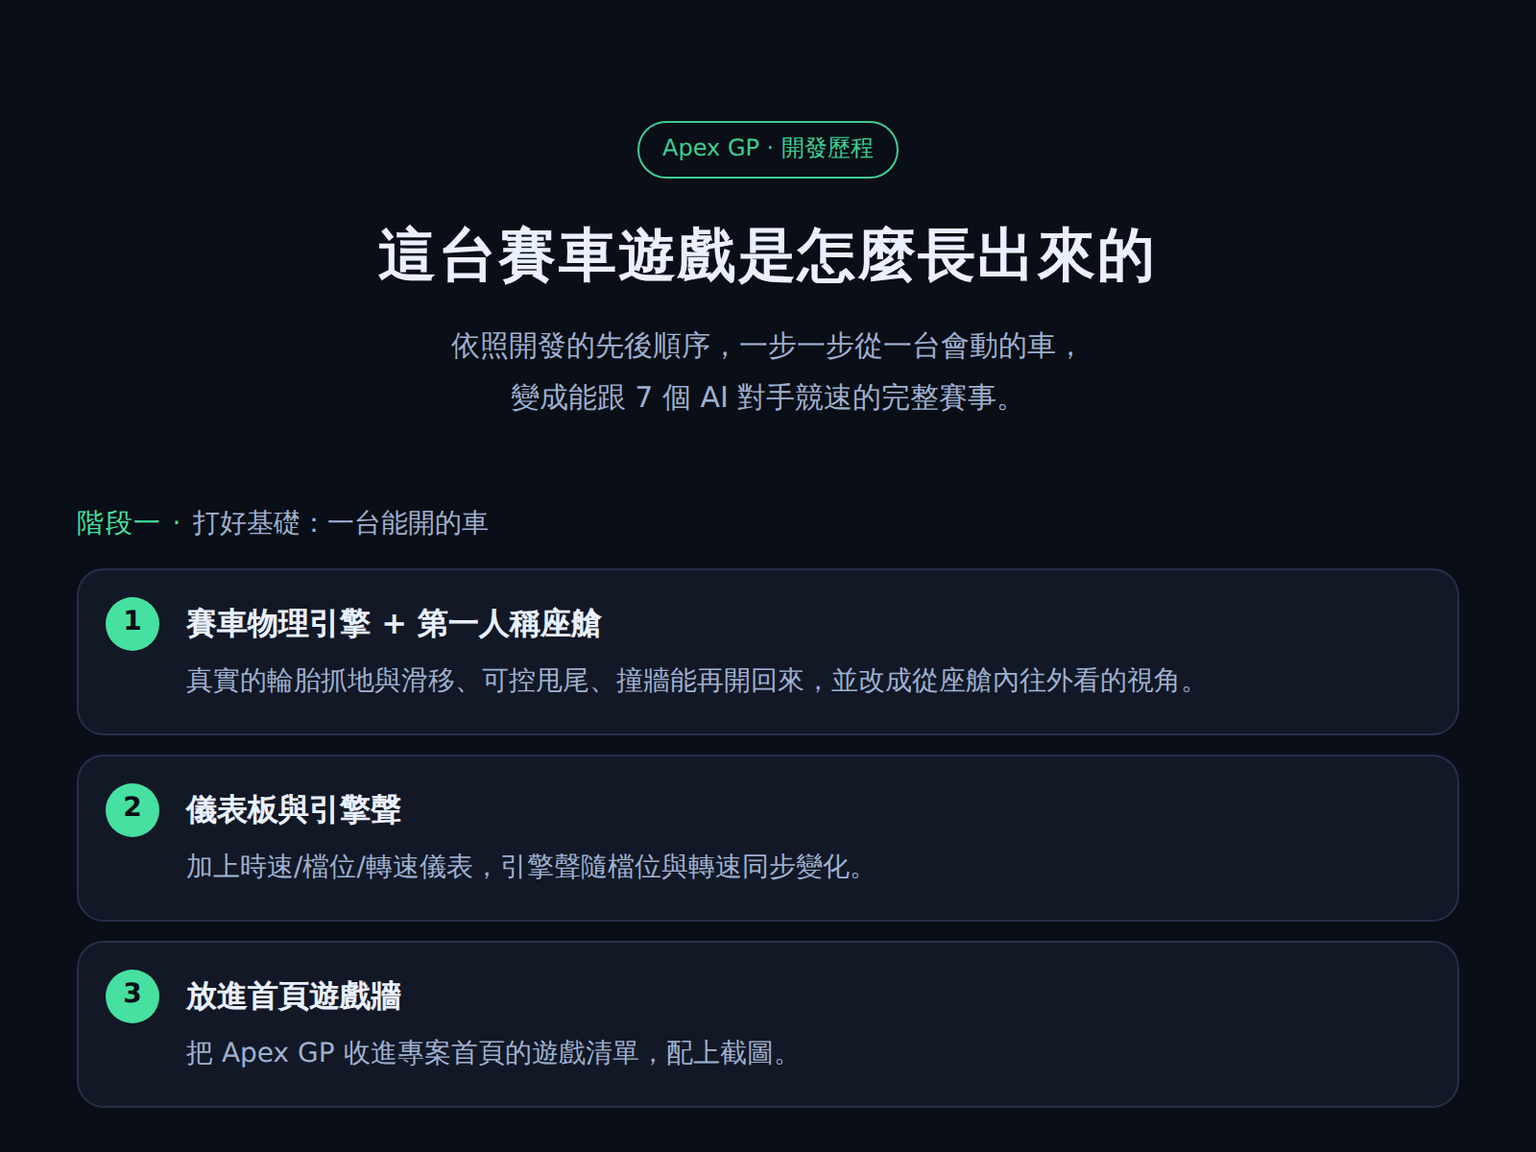
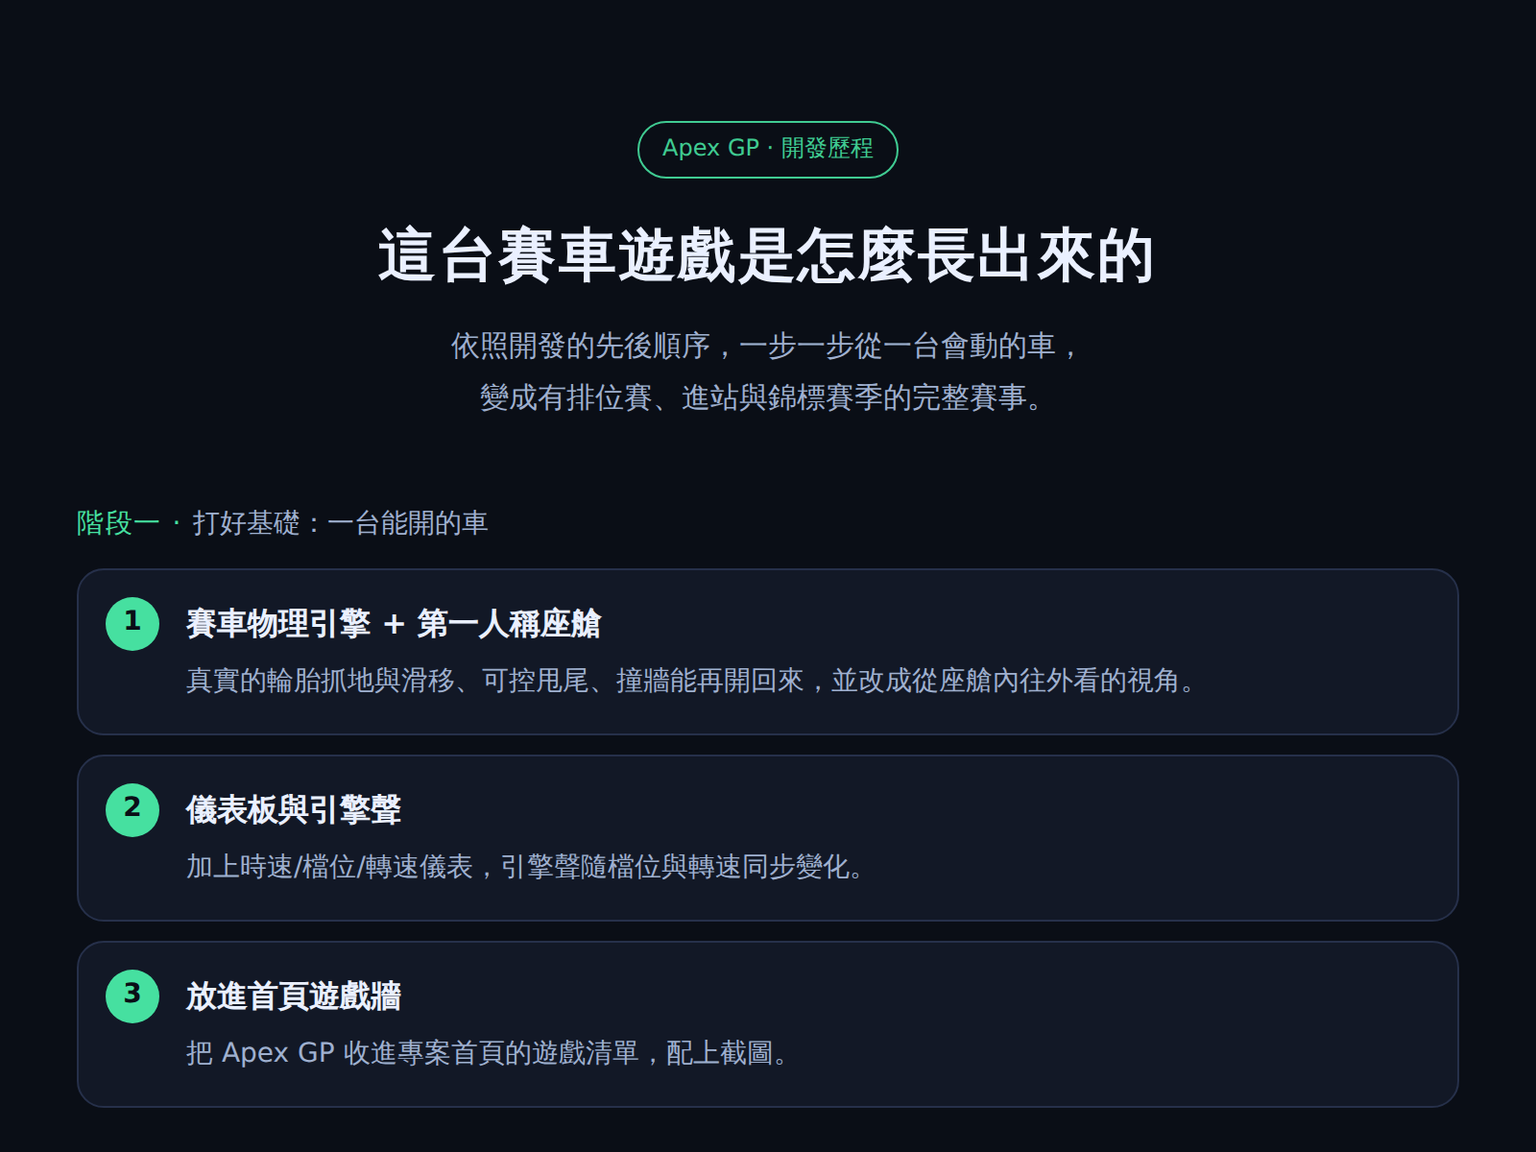
Apex GP: refresh explainer pages for the last 18 commits
the-making-of: five new phases (23-40) — bug-fix sweep, golden-hour visual
pack, race-weekend features (sectors, four circuits, qualifying), an honest
elevation post-mortem, and the championship + stuck-steering finale.

the-science: sections 14-18 (tyre wear & pit strategy, sector timing,
qualifying, championship points, how the world gets drawn), cheat-sheet rows
and control keys updated; points table wrapped in a scroll container so
phones don't get page-level horizontal overflow.

Re-shot the-making-of.png; the-science.png unchanged (top viewport identical).

Changed region(s): [[0.3125, 0.3083, 0.6875, 0.37]]

diff --git a/f1_racing/the-making-of.html b/f1_racing/the-making-of.html
@@ -38,7 +38,7 @@
 <header>
   <div class="tag">Apex GP · 開發歷程</div>
   <h1>這台賽車遊戲是怎麼長出來的</h1>
-  <p>依照開發的先後順序，一步一步從一台會動的車，<br>變成能跟 7 個 AI 對手競速的完整賽事。</p>
+  <p>依照開發的先後順序，一步一步從一台會動的車，<br>變成有排位賽、進站與錦標賽季的完整賽事。</p>
 </header>
 
 <div class="phase">階段一 · <span>打好基礎：一台能開的車</span></div>
@@ -93,6 +93,44 @@
   <li><h3>遙測記錄器</h3><p>遊戲會記錄你每一刻的位置、速度、油門/煞車，按一鍵就能匯出成檔案來分析自己的開法。</p></li>
   <li><h3>用真實數據把 AI 調對</h3><p>錄下一圈真人的 lap 後發現：AI 其實只會「提早鬆油滑行」進彎，而不是像人一樣撐到彎前才重煞，過彎也太保守。於是教它<b>全油門撐到煞車點才煞、帶更高的彎速</b>，還發現「容許它稍微打滑、整體反而更快」——調校的目標從「乾淨」改成「圈速」。</p></li>
   <li><h3>Nankang 贊助塗裝</h3><p>把贊助商 logo 貼上座艙儀表板（寬螢幕顯示，手機畫面太擠則自動隱藏）。</p></li>
+</ol>
+
+<div class="phase">階段九 · <span>先把三個老毛病修乾淨</span></div>
+<ol start="23" style="counter-reset:step 22">
+  <li><h3>HUD 疊字、看台卡頓、彎中的路面破洞</h3><p>三個一起處理：遙測長條移到文字區塊下方（原本蓋住 BEST 和賽道名）；看台觀眾改用「真實尺寸」而不是「螢幕像素」算座位數，近距離時不再一格畫上萬個方塊（單幀曾飆到 740 毫秒）；路面多邊形改成<b>近平面裁切</b>，不再因為一個角落跑到相機後面就整塊丟掉——過彎時閃出綠色地面的破洞消失了。</p></li>
+  <li><h3>領先者衝線，比賽就結束</h3><p>原本只有「玩家」過線才算完賽——所以你如果停在起跑格不動，自己的圈數永遠不會增加，AI 就在旁邊無限跑下去。改成<b>第一台跑完最後一圈的車</b>（不管是你還是對手）就落下格子旗，玩家再依跑過的距離排名次。</p></li>
+</ol>
+
+<div class="phase">階段十 · <span>黃金時刻：把整個世界點亮</span></div>
+<ol start="25" style="counter-reset:step 24">
+  <li><h3>座艙震動 + 高速速度線</h3><p>畫面震動其實一直有在計算，卻從來沒被用到（死碼）。接上去之後，壓草皮、輾路緣、鎖死、撞擊時整個世界會抖幾個像素，方向盤和 HUD 保持不動——讀起來就像座艙在共振。另外時速超過約 <b>170 km/h</b> 開始，從消失點放射出淡白色速度線。</p></li>
+  <li><h3>夕陽天空、距離霧、修剪過的草皮</h3><p>統一成黃金時刻色調：分層漸層天空、會視差移動的低太陽、雲帶、朦朧紫丘。遠處的路面與景物<b>淡入霧裡</b>而不是憑空跳出來。再加上割草機紋路的草皮、路中央被輪胎磨黑的行車線，以及每個彎前的 50m / 100m 煞車距離牌（門檻依各賽道的彎急程度算）。</p></li>
+  <li><h3>換檔燈、看台結構、起跑龍門</h3><p>儀表板上方換成 F1 方向盤式的 <b>15 顆換檔燈</b>（5 綠 / 5 紅 / 5 紫），隨轉速由左往右亮，超轉時全部閃爍。舊的燈其實一直畫在畫面外（輪軸樞紐在畫框下方），難怪看起來像不會動的裝飾。看台補上混凝土基座、屋頂立柱、兩端鋼構。</p></li>
+  <li><h3>長影子與活的觀眾</h3><p>每個物件（樹、看板、標誌、看台、龍門柱）和對手車都拖出<b>被夕陽拉長的影子</b>；路面與草地依照「面對太陽的角度」分三級明暗；朝著太陽跑的路段會泛起暖色反光。看台上開始有觀眾揮舞隊旗、閃光燈此起彼落。</p></li>
+  <li><h3>看得見自己的前輪 + 維修牆與輪胎牆</h3><p>畫面左下右下加上<b>自己的兩顆前輪</b>，會跟著你轉向、有懸吊連桿和輪胎配方顏色的胎壁環。（也試過 Halo 和後照鏡，兩個都砍掉——Halo 的柱子正好擋在行車線上，後照鏡太雜亂。）對手的上半身車體會隨相對偏航「錯開」，遠遠就看得出他在切彎；再加上起跑直線旁的維修牆、以及最急彎外側的輪胎牆。</p></li>
+  <li><h3>對手賽車大改造</h3><p>從一塊平梯形變成有腰身的車體：側箱在底板處鼓起、座艙處收腰、往引擎蓋收尖；駕駛頭盔加上 Halo 環和進氣口。前輪露在車身外，過彎時擺得比車身還寬——<b>遠距離判斷「他在轉了」最清楚的線索</b>。尾翼做成兩層，DRS 打開時襟翼會明顯放平變亮。</p></li>
+</ol>
+
+<div class="phase">階段十一 · <span>從「一場比賽」變成「一個賽事週末」</span></div>
+<ol start="31" style="counter-reset:step 30">
+  <li><h3>分段計時 + 進站換胎</h3><p>HUD 顯示 S1/S2/S3 分段，破紀錄變綠、每次過分段線跳出 ±差距。起跑直線旁生出一條真的<b>維修道</b>（進出彎道、PIT 標誌、黃色停車格），從賽道中心線資料自動長出來。T 鍵改成「預約下次要換的胎」，真正換胎只在停車格內靜止約 <b>2.6 秒</b>時發生；維修道自動限速 90 km/h。第一版一次進站要花 25 秒，對 2–3 圈的比賽太狠，縮短車道並提高限速後降到約 <b>10 秒</b>。</p></li>
+  <li><h3>四條經典賽道 + 任何速度都救得回來</h3><p>加上 Monza、Silverstone、Spa、Monaco（純資料，控制點餵給同一套引擎）：Rettifilo 與 Ascari 連續彎、Maggotts-Becketts S 彎、La Source + Eau Rouge、以及全場最緊的 Loews 髮夾。分段、煞車牌、輪胎牆、小地圖、AI 全部自動跟上。<br>急彎也逼出一個舊 bug：原本的「防卡住」只在時速 7 m/s 以下才啟動，被高速推上護欄的車就<b>真的卡死在那裡</b>（實測卡了 117–274 秒）。改成<b>賽會人員救援</b>：偵測持續在賽道外或前進距離停滯就啟動，用有限速度把車拖回行車線，過程中穿透景物與其他車，真的回到賽道才放手。</p></li>
+  <li><h3>看台離屏快取：近距離不再掉幀</h3><p>每個看台每一幀要畫約 284 個觀眾小方塊，8 座就是 2,300 個——經過主看台時 FPS 直接跳水。改成把靜態部分（階梯、基座、觀眾、鋼構、屋頂）<b>先烘焙到一張離屏畫布</b>，每幀只 blit 一次；旗子和閃光燈仍然即時畫，人群還是活的。<br>但只做一張全解析度快取反而慢了 12 倍（巨大的來源縮到螢幕上一小塊）。所以每座看台再存一條<b>半尺寸的 mip 金字塔</b>（一路降到約 32px），依照它在螢幕上的寬度挑最接近的一層。實測直線段的繪製時間中位數 3.7ms → 2.1ms。</p></li>
+  <li><h3>排位賽決定起跑格</h3><p>賽前排位（選單開關，預設開）：一圈<b>暖胎出場圈</b>加兩圈計時圈，全場同時跑，按 Enter 可以提前結束。結果面板列出全場成績與跟竿位的差距，起跑格照排位時間排（沒跑出時間的排最後）。排位圈不會污染你那條賽道的個人最佳紀錄；按 R 是用同一份起跑格重跑，不會再排一次位。</p></li>
+</ol>
+
+<div class="phase">階段十二 · <span>做了又拿掉：高低起伏的事後檢討</span></div>
+<ol start="35" style="counter-reset:step 34">
+  <li><h3>先做出來了：山坡、爬升、盲彎頂</h3><p>賽道控制點多接受一個高度值，插值成每個取樣點的高度，投影公式把它算進去——路面、路緣、景物、看台、圍牆、龍門、對手、胎痕、煙霧全部坐上斜坡。<b>只做視覺、不碰物理</b>：六條平坦賽道逐位元組驗證畫面完全相同，固定步長模擬的行車軌跡也一模一樣。Spa 拿到第一份高度剖面（約 22 公尺落差：Eau Rouge 低點、Raidillon 爬升、Pouhon 後的隆起與俯衝）。還做了盲彎頂遮蔽：由近而遠掃一遍，記錄一條「最高輪廓線」，山頭後面的東西就被切掉或裁切。</p></li>
+  <li><h3>然後 Spa 整條路開始閃</h3><p>Spa 的走線讓一段高處路段在<b>空間上</b>非常靠近 Eau Rouge 的低點——一條「賽道索引很遠、實際卻很近」的路面肋條落在相機近平面上，投影公式的除法奇異點把它的地面高度算成約 -9000，那條輪廓線接著把整幀所有更遠的多邊形和物件全部剃掉。車子動個幾十公分就讓它在近平面來回，於是<b>整條路每幾幀消失一次</b>。修法是只讓距離夠遠（16m 以上）、且不高過視線 6 公尺的肋條參與輪廓線。</p></li>
+  <li><h3>最後決定整個拿掉</h3><p>修好 Spa 之後，盲彎頂附近的對手車還是會偶爾閃爍、路面偶爾整片消失——<b>三輪修補都沒有根治</b>。於是把 index.html 整個回滾到加高度之前的版本，接受「賽道是平的」這個狀態。<br>留下的教訓：一個純視覺的功能，如果它的正確性依賴「距離排序 = 空間距離」這種在迴繞賽道上根本不成立的假設，成本會遠超過它帶來的畫面收益。<b>做得出來，不等於該留著。</b></p></li>
+</ol>
+
+<div class="phase">階段十三 · <span>賽季，以及最後一個 bug</span></div>
+<ol start="38" style="counter-reset:step 37">
+  <li><h3>AI 也會進站</h3><p>對手車有了自己的進站狀態機：依胎耗決定要不要進、沿維修道路徑前進並限速、在停車格<b>錯開停位</b>（同時進站的車排成一列而不是疊在一起）、車道內免碰撞、上千斤頂時不觸發賽會救援，剩幾圈就選什麼胎（剩 1 圈軟胎衝、剩 3 圈內中性、更長用硬胎）。例行策略進站設定在 6 圈以上才啟動——實測中性胎大約一圈就磨掉一整組，所以目前這些 2–4 圈的短程賽維持原本「不進站、輪胎就這樣衰退」的手感；只有輪胎<b>突然</b>報銷才一定會進場。</p></li>
+  <li><h3>錦標賽：7 站賽季</h3><p>選單多了模式選擇（單場 / 錦標賽）。一個賽季照順序跑完 7 條賽道，名次給分 <b>25/18/15/12/10/8/6/4</b>。每站結束顯示本站得分與累計積分榜（你的那列會反白），第 7 站之後跳出賽季冠軍畫面。進度存在瀏覽器裡（連同難度與對手數），關掉重開會從正確的一站繼續；按 R 重跑不會重複給分。</p></li>
+  <li><h3>卡住的方向盤</h3><p>按鍵狀態原本只靠對應的放開事件清除，只要漏掉一次（切到別的視窗、或衝線瞬間還按著方向又按 Enter），「左轉」就會<b>永遠卡在按下狀態</b>。錦標賽讓它現形——一站接一站直接串下去，卡住的值就這樣被帶進之後每一站。修法：每次比賽開始都先清空所有輸入，再加上失去焦點時自動清除。物理和轉向參數一個都沒動。</p></li>
 </ol>
 
 <div class="note">

diff --git a/f1_racing/the-science.html b/f1_racing/the-science.html
@@ -31,6 +31,7 @@
   .analogy b{ color:var(--ink); }
   svg{ display:block; margin:10px auto; max-width:100%; }
   table{ width:100%; border-collapse:collapse; margin:12px 0; font-size:14.5px; }
+  .scrollx{ overflow-x:auto; }
   th,td{ border:1px solid var(--line); padding:8px 10px; text-align:center; }
   th{ background:#0c1120; color:var(--dim); font-weight:600; }
   .gear{ color:var(--green); font-weight:700; }
@@ -222,6 +223,65 @@
   <div class="key">電腦對手<b>每段直線都會自動開 DRS、放 ERS</b>。所以如果你在直線上沒按 <span class="kbd">Shift</span>(ERS) 和 <span class="kbd">F</span>(DRS)，加速力差快一倍，當然<b>被 AI 拉開、追不上</b>。秘訣：<b>一進直線就按住 Shift + F</b>，出彎也早點放 ERS。</div>
 </div>
 
+<!-- 14 -->
+<h2><span class="n">14</span>輪胎會被磨光：軟硬胎與進站策略</h2>
+<p class="sub">抓地力和耐用度是一組蹺蹺板，這就是「策略」的來源。</p>
+<div class="card">
+  <p class="analogy">輪胎橡膠越軟，越能「咬」進柏油的細縫裡——抓地力越好，但也<b>磨得越快</b>，就像軟的鉛筆芯寫起來又黑又順，卻沒幾下就鈍了。硬橡膠正好相反。所以賽車不是「拿最黏的就好」，而是要選在這場比賽裡<b>總時間最短</b>的那一種。</p>
+  <table>
+    <tr><th>配方</th><th>抓地力</th><th>磨耗速度</th><th>最佳胎溫</th></tr>
+    <tr><td><span style="color:#ff5a5f;font-weight:700">S 軟胎</span></td><td class="gear">1.10 倍</td><td class="warn">1.9 倍（最快磨光）</td><td>約 98°C</td></tr>
+    <tr><td><span style="color:#ffd24a;font-weight:700">M 中性胎</span></td><td>1.00 倍</td><td>1.0 倍</td><td>約 88°C</td></tr>
+    <tr><td><span style="color:#dfe6f2;font-weight:700">H 硬胎</span></td><td>0.92 倍</td><td class="gear">0.55 倍（最耐磨）</td><td>約 78°C</td></tr>
+  </table>
+  <p>注意最右邊那欄：越軟的胎，<b>需要越高的溫度</b>才進入工作區（回到第 8 點）。這也是為什麼軟胎「上手很快、掉得也快」。</p>
+  <div class="key"><b>進站要花時間，所以是一道算術題。</b>遊戲裡進一次維修道，含限速、停車、重新加速，大約要付出 <b>10 秒</b>（維修道自動限速 90 km/h，換胎本身停 2.6 秒）。值不值得，就看<span class="em">「新胎每圈能快回來的秒數 × 剩下的圈數」有沒有大於 10 秒</span>。剩兩圈就別進了——換上新胎也賺不回來；比賽夠長，換胎就一定划算。真實 F1 的所有「策略」講的都是這條式子。</div>
+  <p style="margin-top:14px"><b>怎麼操作：</b>按 <span class="kbd">T</span> 不會當場換胎，它是<b>預約下一次進站要換哪一種</b>（HUD 上的「PIT 胎」會跟著變）。真正換胎只發生在你把車停進維修道的黃色停車格、靜止約 2.6 秒的時候。電腦對手也有同一套邏輯：胎快沒了才進站，並依照<b>剩幾圈</b>決定要軟胎衝刺還是硬胎跑長途。</p>
+</div>
+
+<!-- 15 -->
+<h2><span class="n">15</span>分段計時：找出你到底慢在哪一段</h2>
+<p class="sub">一圈的總時間告訴你「慢了」，分段告訴你「慢在哪」。</p>
+<div class="card">
+  <p class="analogy">如果只量整圈時間，你只知道這圈比上一圈慢了 0.8 秒，卻完全不知道問題在哪個彎。所以賽車把一圈切成三段（<b>S1 / S2 / S3</b>），各自計時——就像考試不只看總分，還要看每一科分數，才知道該補哪一科。</p>
+  <div class="key">遊戲把賽道長度平均切成三段，每次通過分段線就跳出一個 <b>±差距</b>：綠色代表你剛剛破了這一段的最佳紀錄，紅色代表比自己的最好還慢。三段時間加起來剛好等於整圈時間。<b>看差距練車，比盯著總時間有效得多</b>——它會直接告訴你哪一段值得再多冒一點險。</div>
+</div>
+
+<!-- 16 -->
+<h2><span class="n">16</span>排位賽：為什麼要先跑一圈「不算成績」的？</h2>
+<p class="sub">起跑順序不是抽籤，是自己跑出來的。</p>
+<div class="card">
+  <p>正式比賽前有一段<b>排位賽</b>：全場同時上路，跑<span class="em">一圈暖胎出場圈（不計時）+ 兩圈計時圈</span>，最快的那圈決定你的起跑格。誰快誰排前面，沒跑出時間的排最後。</p>
+  <p class="analogy">那圈「不計時」的出場圈不是浪費——回到第 8 點：<b>冷的輪胎不抓地</b>。用一圈把胎溫和煞車溫度養起來，第二圈才有真正的抓地力可以拚。就像短跑選手不會一到場就直接起跑，一定先熱身。</p>
+  <div class="key">排位為什麼重要？因為賽道上<b>超車很難</b>——前車擋住你的路線、也擋住你的空氣。乾淨的一圈換來的前排位置，往往比整場比賽拚命超車還划算。（遊戲裡排位圈不會覆蓋你那條賽道的個人最佳紀錄，按 <span class="kbd">Enter</span> 可以提前結束排位。）</div>
+</div>
+
+<!-- 17 -->
+<h2><span class="n">17</span>積分榜：為什麼冠軍不一定每場都贏？</h2>
+<p class="sub">賽季比的不是單場爆發，是「穩定」。</p>
+<div class="card">
+  <p>錦標賽模式把 7 條賽道串成一個賽季，每站照名次給分：</p>
+  <div class="scrollx"><table>
+    <tr><th>名次</th><td>P1</td><td>P2</td><td>P3</td><td>P4</td><td>P5</td><td>P6</td><td>P7</td><td>P8</td></tr>
+    <tr><th>積分</th><td class="gear">25</td><td>18</td><td>15</td><td>12</td><td>10</td><td>8</td><td>6</td><td>4</td></tr>
+  </table></div>
+  <p class="analogy">看一下這串數字的<b>間距</b>：第 1 名和第 2 名差 7 分，第 2 名和第 3 名只差 3 分，往後越差越小。這個設計是刻意的——<b>贏一場很值錢，但「每場都在前段」更值錢</b>。</p>
+  <div class="key"><b>算給你看：</b>A 選手兩站拿了 P1 + P8（25 + 4 = <b>29 分</b>），B 選手兩站都拿 P3（15 + 15 = <b>30 分</b>）。從來沒贏過的 B 反而領先。這就是為什麼真實 F1 的車手常說「先把車帶回終點」——<span class="em">完賽的第 4 名，永遠大於退賽的第 1 名</span>。</div>
+</div>
+
+<!-- 18 -->
+<h2><span class="n">18</span>遊戲怎麼「畫」出這一整個世界？</h2>
+<p class="sub">關鍵不是畫得多，而是<b>想辦法不要重畫</b>。</p>
+<div class="card">
+  <p>畫面每秒要更新 60 次，也就是每一幀只有大約 <b>16 毫秒</b>可以用。超過，你就會感覺到卡頓。所以做遊戲有一半的工夫，都花在「怎麼少做一點事」。</p>
+  <ul>
+    <li><b>先畫好、存起來、重複用（快取）</b>：看台上的觀眾原本每一幀都要一顆一顆重畫，8 座看台就是 2,300 多個小方塊，經過主看台時直接掉幀。解法是把看台的固定部分<b>先畫到一張隱形的圖上</b>，之後每幀只要把那張圖貼一次就好——旗子和閃光燈才即時畫，所以人群看起來還是活的。</li>
+    <li><b>遠的東西用小圖（mip 金字塔）</b>：但只存一張大圖反而更慢——把一張巨圖縮到螢幕上一小塊，縮圖本身就很花時間。所以每座看台額外準備一整套<b>逐級減半的小圖</b>，看它在畫面上多大就挑差不多大的那張來貼。近的仍然清晰，遠的省下大把時間。</li>
+    <li><b>看不到的就別畫</b>：被擋住、跑到相機後面、遠到只剩一個點的東西，通通跳過。這叫「剔除」，是所有 3D 遊戲的基本功。</li>
+  </ul>
+  <div class="key"><b>一個誠實的失敗：</b>這款遊戲曾經做過「賽道有高低起伏」——山坡、爬升、盲彎頂都做出來了，物理完全沒動。但用來處理「山頭擋住後面」的那套判斷，建立在「賽道上排在後面的路段，一定離你比較遠」這個假設上；而 Spa 這種會<b>繞回自己上方</b>的賽道，這個假設根本不成立，結果整條路每幾幀就閃一次。修了三輪還是有殘影，最後<b>整個功能被拿掉</b>。<br>寫程式常常是這樣：讓它動起來不難，難的是確認你當初的假設在所有情況下都還成立。</div>
+</div>
+
 <!-- cheat sheet -->
 <h2><span class="n">★</span>一張表記住怎麼開</h2>
 <div class="card">
@@ -234,8 +294,12 @@
     <tr><td>髮夾彎 / 小彎</td><td>一定要慢（一二檔）</td><td>半徑小，過彎極限速度低</td></tr>
     <tr><td>掉草地</td><td>先鬆油、慢慢轉回</td><td>抓地只剩六成，硬轉會打滑</td></tr>
     <tr><td>上直線</td><td>按住 ERS + DRS</td><td>多一股推力又少阻力，不開就輸 AI</td></tr>
+    <tr><td>剛上場 / 排位出場圈</td><td>先跑一圈養胎溫</td><td>冷胎不抓地，第二圈才拚得動</td></tr>
+    <tr><td>輪胎快沒了</td><td>先按 T 選胎，再進維修道</td><td>一次停站約 10 秒，剩太少圈就別進</td></tr>
+    <tr><td>某一段一直慢</td><td>看 S1/S2/S3 的 ±差距</td><td>總時間只說「慢」，分段才說「慢在哪」</td></tr>
+    <tr><td>錦標賽</td><td>穩穩完賽，別為一個位置賭</td><td>P3+P3 比 P1+P8 還多分</td></tr>
   </table>
-  <div class="key">控制鍵：<span class="kbd">W / ↑</span> 油門 · <span class="kbd">S / ↓</span> 煞車 · <span class="kbd">A D / ← →</span> 轉向 · <span class="kbd">Shift</span> ERS 加速 · <span class="kbd">F</span> DRS · <span class="kbd">空白</span> 手煞車</div>
+  <div class="key">控制鍵：<span class="kbd">W / ↑</span> 油門 · <span class="kbd">S / ↓</span> 煞車 · <span class="kbd">A D / ← →</span> 轉向 · <span class="kbd">Shift</span> ERS 加速 · <span class="kbd">F</span> DRS · <span class="kbd">空白</span> 手煞車 · <span class="kbd">T</span> 選下次進站的胎 · <span class="kbd">Enter</span> 提前結束排位 · <span class="kbd">P</span> 暫停 · <span class="kbd">R</span> 重跑</div>
 </div>
 
 <footer>
